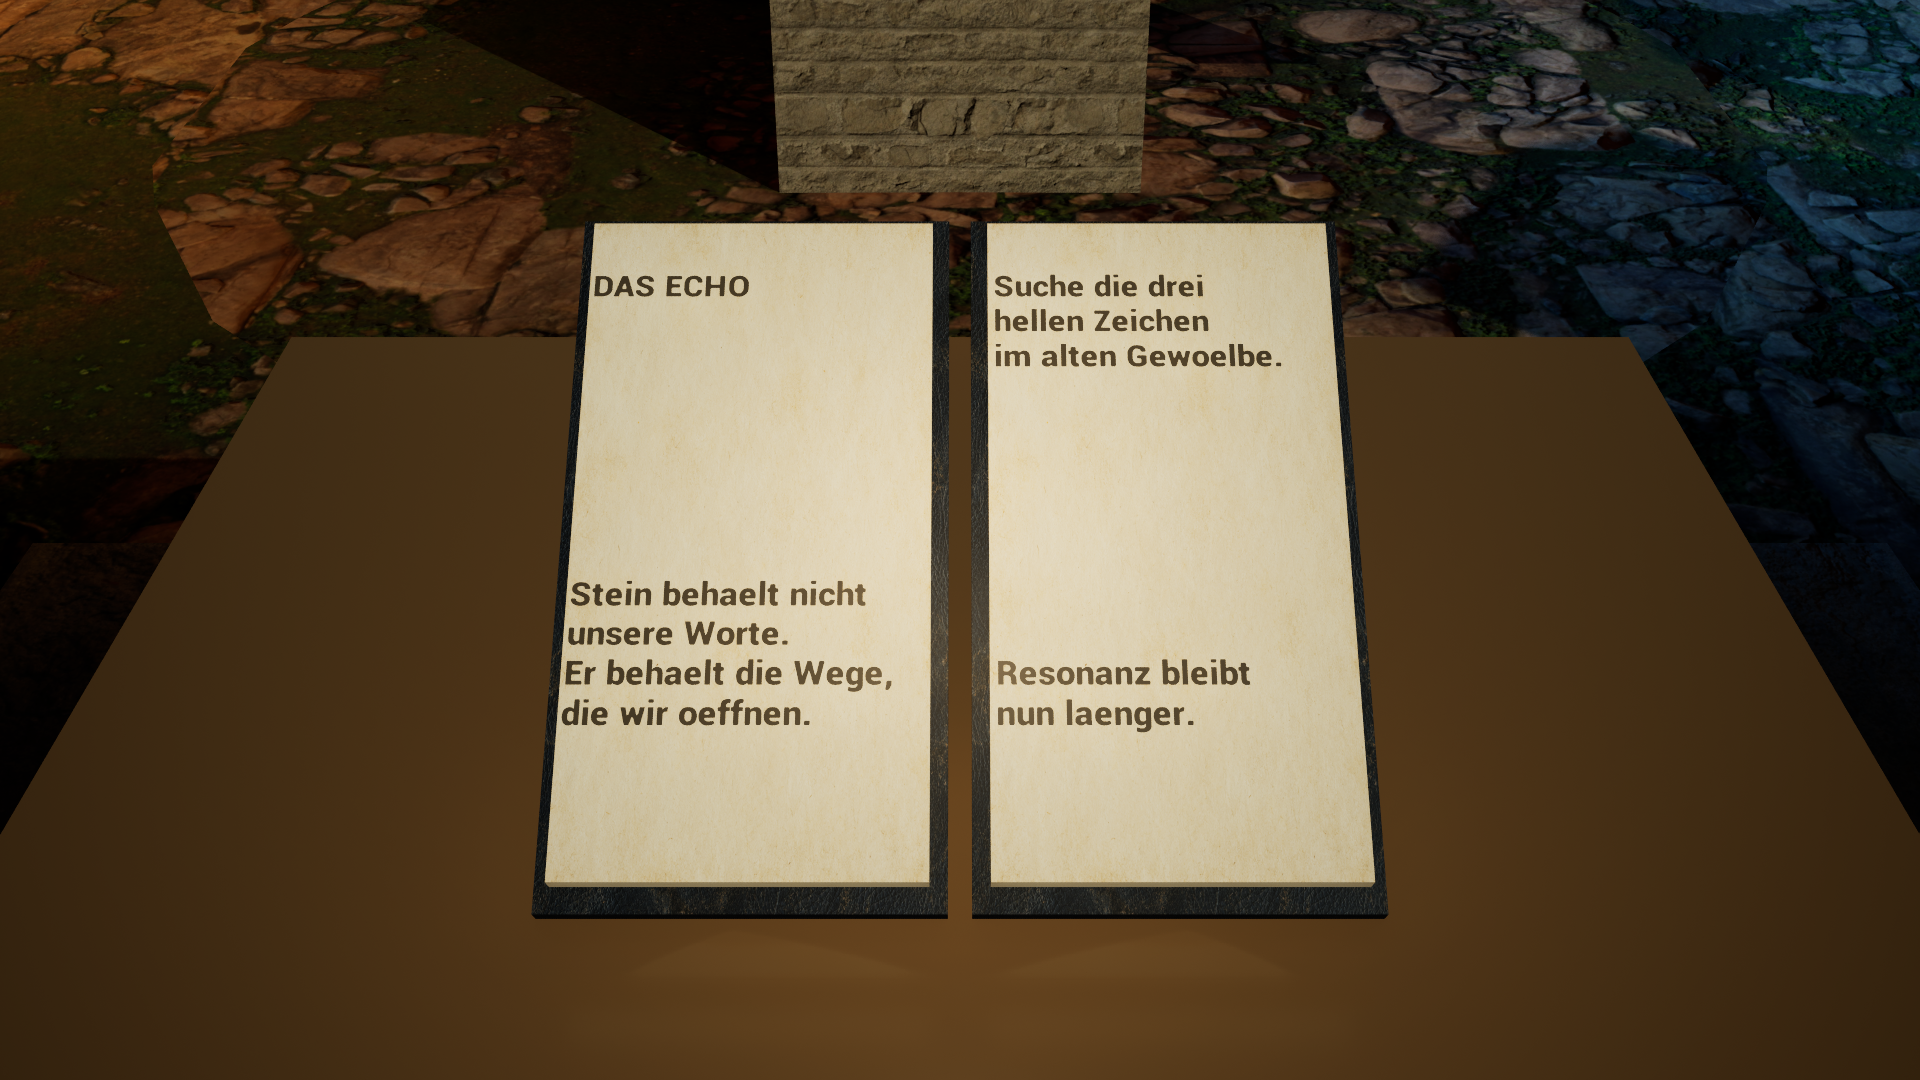
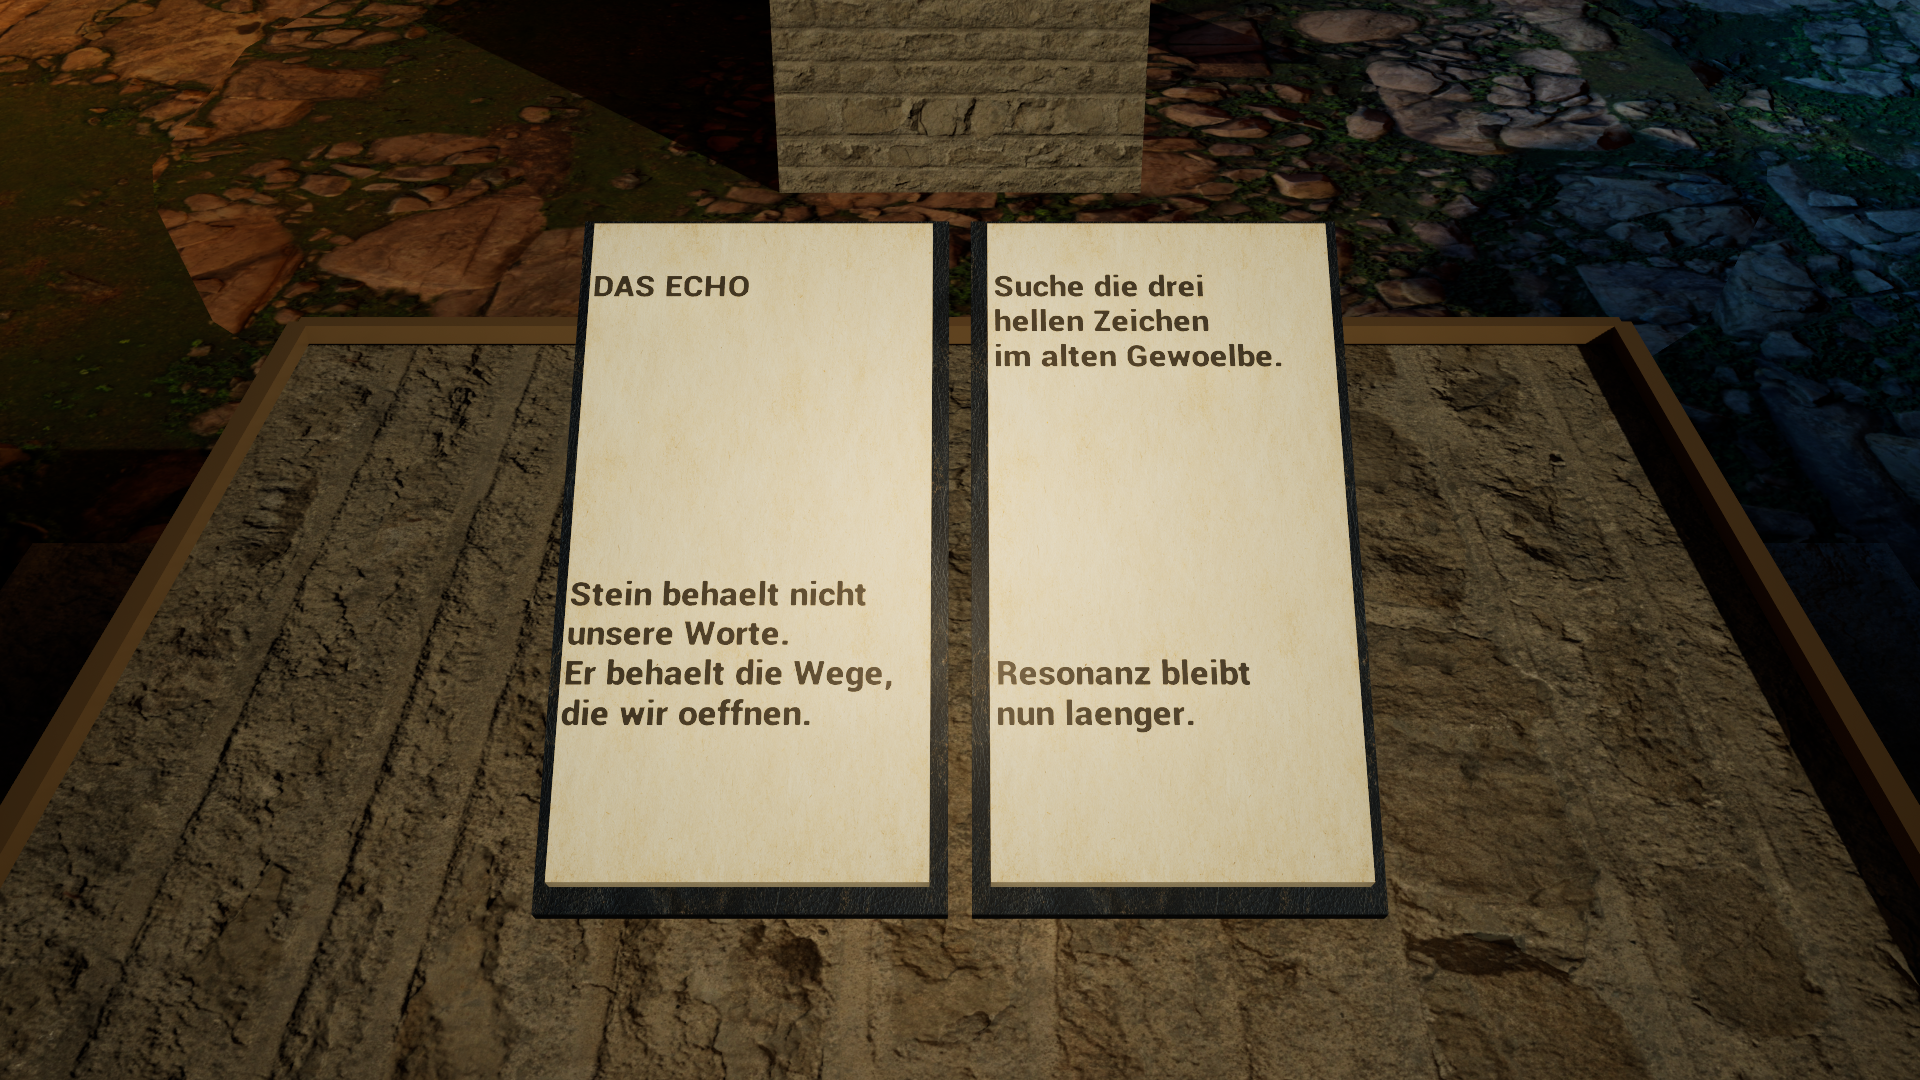
Refine ASHBOUND archive reading scene

Changed region(s): [[0.0, 0.275, 1.0, 1.0], [0.0312, 0.5806, 0.0938, 0.6722], [0.0, 0.6722, 0.0312, 0.7639]]

diff --git a/native/ashbound-unreal/Source/ASHBOUNDUE/ASHBOUNDGrimoire.cpp b/native/ashbound-unreal/Source/ASHBOUNDUE/ASHBOUNDGrimoire.cpp
@@ -6,6 +6,7 @@
 #include "Components/StaticMeshComponent.h"
 #include "Components/TextRenderComponent.h"
 #include "Engine/Engine.h"
+#include "Engine/Font.h"
 #include "Engine/StaticMesh.h"
 #include "GameFramework/PlayerController.h"
 #include "Kismet/GameplayStatics.h"
@@ -48,8 +49,10 @@ AASHBOUNDGrimoire::AASHBOUNDGrimoire()
     RightText = CreateDefaultSubobject<UTextRenderComponent>(TEXT("RightText"));
     LeftText->SetupAttachment(BookRoot);
     RightText->SetupAttachment(BookRoot);
+    static ConstructorHelpers::FObjectFinder<UFont> ReadingFont(TEXT("/Engine/EngineFonts/RobotoDistanceField.RobotoDistanceField"));
     for (UTextRenderComponent* Text : {LeftText.Get(), RightText.Get()})
     {
+        if (ReadingFont.Succeeded()) Text->SetFont(ReadingFont.Object);
         Text->SetWorldSize(3.5f);
         Text->SetTextRenderColor(FColor(22, 18, 13));
         Text->SetHorizontalAlignment(EHTA_Left);

diff --git a/native/ashbound-unreal/tools/build_world.py b/native/ashbound-unreal/tools/build_world.py
@@ -264,8 +264,13 @@ for index, (width, height) in enumerate(((3.5, 20), (2.5, 24), (1.65, 60))):
     z = (10, 32, 74)[index]
     spawn_mesh(cube, 'ASHBOUND / Archive altar tier %02d' % index,
                vault_x, 0, z, width, width, height / 100, mat=stone_mat)
-spawn_mesh(cube, 'ASHBOUND / Altar bronze rim',
-           vault_x, 0, 107, 1.72, 1.72, .06, mat=bronze_mat)
+spawn_mesh(cube, 'ASHBOUND / Altar stone tabletop',
+           vault_x, 0, 107, 1.72, 1.72, .06, mat=stone_mat)
+for side in (-1, 1):
+    spawn_mesh(cube, 'ASHBOUND / Altar bronze east-west inlay %s' % side,
+               vault_x, side * 84, 112, 1.68, .025, .025, mat=bronze_mat)
+    spawn_mesh(cube, 'ASHBOUND / Altar bronze north-south inlay %s' % side,
+               vault_x + side * 84, 0, 112, .025, 1.68, .025, mat=bronze_mat)
 
 book_class = unreal.load_class(None, '/Script/ASHBOUNDUE.ASHBOUNDGrimoire')
 if book_class is None:

diff --git a/native/ashbound-unreal/README.md b/native/ashbound-unreal/README.md
@@ -2,7 +2,7 @@
 
 ASHBOUND is an independent first-person Unreal Engine 5.8 game in development. This local Windows build has a walkable ash valley, a ruined archive, three living spell schools, a readable 3D book and a three-seal passage into the fort. It runs as a native EXE with DX12/SM6, Lumen and virtual shadow maps. The browser research pages are separate from this game.
 The local reference profile starts at Epic scalability and 100% internal render resolution. Its display resolution follows the monitor; game-user settings can still be changed after first launch.
-On the reference PC (Ryzen 7 9700X, RTX 4070 SUPER, 61.6 GiB RAM), a packaged Development build rendered the archive scene offscreen at 2560 × 1440, Epic quality and 100% internal resolution: 540 sampled frames after warm-up had a 12.67 ms median and 13.69 ms 95th-percentile frame time. This measures one stationary scene, not a moving foreground play session or a guaranteed frame rate throughout a larger game.
+On the reference PC (Ryzen 7 9700X, RTX 4070 SUPER, 61.6 GiB RAM), a packaged Development build rendered the archive gate view offscreen at 2560 × 1440, Epic quality and 100% internal resolution: 540 sampled frames after warm-up had a 10.90 ms median and 12.36 ms 95th-percentile frame time. This measures one stationary scene, not a moving foreground play session or a guaranteed frame rate throughout a larger game.
 
 ![The in-world ASHBOUND grimoire in the native EXE](art/grimoire-preview.png)
 
